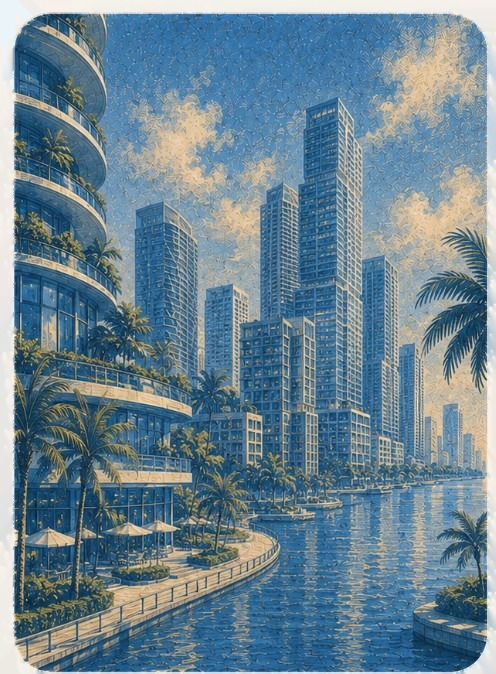
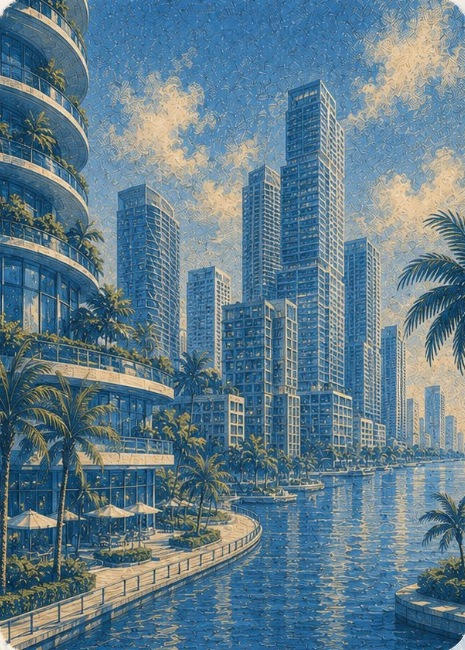
Trim the hero top fringe and smooth the ventures expand animation.

diff --git a/index.html b/index.html
@@ -34,11 +34,11 @@
   <link rel="preconnect" href="https://fonts.googleapis.com" />
   <link rel="preconnect" href="https://fonts.gstatic.com" crossorigin />
   <link href="https://fonts.googleapis.com/css2?family=Instrument+Serif:ital@0;1&display=swap" rel="stylesheet" />
-  <link rel="stylesheet" href="style.css?v=20260806c" />
+  <link rel="stylesheet" href="style.css?v=20260806d" />
 </head>
 <body>
   <div class="world" aria-hidden="true">
-    <img class="world-art" src="assets/hero-city-fill.jpg?v=20260806c" alt="" />
+    <img class="world-art" src="assets/hero-city-fill.jpg?v=20260806d" alt="" />
     <div class="world-wash"></div>
   </div>
 
@@ -60,62 +60,64 @@
 
     <details class="ventures" id="ventures">
       <summary>Ventures <span class="range"><time datetime="2019">2019</time>–<time datetime="2026">2026</time></span></summary>
-      <ul>
-        <li>
-          <a href="https://instaclaw.io" target="_blank" rel="noopener noreferrer">
+      <div class="ventures-panel">
+        <ul>
+          <li>
+            <a href="https://instaclaw.io" target="_blank" rel="noopener noreferrer">
+              <div class="row">
+                <strong>Instaclaw</strong>
+                <span class="when">Present</span>
+              </div>
+              <span>Cofounder. Personal AI agents that take action.</span>
+            </a>
+          </li>
+          <li>
             <div class="row">
-              <strong>Instaclaw</strong>
-              <span class="when">Present</span>
+              <strong>Fragile</strong>
+              <span class="when">Previous</span>
             </div>
-            <span>Cofounder. Personal AI agents that take action.</span>
-          </a>
-        </li>
-        <li>
-          <div class="row">
-            <strong>Fragile</strong>
-            <span class="when">Previous</span>
-          </div>
-          <span>New media, motion, and launch films at a stealth Series B startup.</span>
-        </li>
-        <li>
-          <div class="row">
-            <strong>Halo</strong>
-            <span class="when">Previous</span>
-          </div>
-          <span>Hardware for quitting smoking.</span>
-        </li>
-        <li>
-          <div class="row">
-            <strong>Amarna Gallery</strong>
-            <span class="when">Previous</span>
-          </div>
-          <span>Cultural institution and events.</span>
-        </li>
-        <li>
-          <div class="row">
-            <strong>Neutrals</strong>
-            <span class="when">Previous</span>
-          </div>
-          <span>Agentic AI news platform.</span>
-        </li>
-        <li>
-          <div class="row">
-            <strong>Lucky Eight Media</strong>
-            <span class="when">Previous</span>
-          </div>
-          <span>B2B lead generation.</span>
-        </li>
-        <li>
-          <div class="row">
-            <strong>Revyval</strong>
-            <span class="when">Previous</span>
-          </div>
-          <span>Health science and human performance.</span>
-        </li>
-      </ul>
+            <span>New media, motion, and launch films at a stealth Series B startup.</span>
+          </li>
+          <li>
+            <div class="row">
+              <strong>Halo</strong>
+              <span class="when">Previous</span>
+            </div>
+            <span>Hardware for quitting smoking.</span>
+          </li>
+          <li>
+            <div class="row">
+              <strong>Amarna Gallery</strong>
+              <span class="when">Previous</span>
+            </div>
+            <span>Cultural institution and events.</span>
+          </li>
+          <li>
+            <div class="row">
+              <strong>Neutrals</strong>
+              <span class="when">Previous</span>
+            </div>
+            <span>Agentic AI news platform.</span>
+          </li>
+          <li>
+            <div class="row">
+              <strong>Lucky Eight Media</strong>
+              <span class="when">Previous</span>
+            </div>
+            <span>B2B lead generation.</span>
+          </li>
+          <li>
+            <div class="row">
+              <strong>Revyval</strong>
+              <span class="when">Previous</span>
+            </div>
+            <span>Health science and human performance.</span>
+          </li>
+        </ul>
+      </div>
     </details>
   </main>
 
-  <script src="script.js?v=20260804" defer></script>
+  <script src="script.js?v=20260806d" defer></script>
 </body>
 </html>

diff --git a/script.js b/script.js
@@ -1,23 +1,77 @@
 (function () {
   var el = document.getElementById('clock');
-  if (!el) return;
+  if (el) {
+    var fmt = new Intl.DateTimeFormat('en-US', {
+      timeZone: 'America/Los_Angeles',
+      month: 'short',
+      day: 'numeric',
+      year: 'numeric',
+      hour: '2-digit',
+      minute: '2-digit',
+      hour12: false,
+    });
 
-  var fmt = new Intl.DateTimeFormat('en-US', {
-    timeZone: 'America/Los_Angeles',
-    month: 'short',
-    day: 'numeric',
-    year: 'numeric',
-    hour: '2-digit',
-    minute: '2-digit',
-    hour12: false,
-  });
+    function tick() {
+      var now = new Date();
+      el.dateTime = now.toISOString();
+      el.textContent = 'San Francisco · ' + fmt.format(now);
+    }
 
-  function tick() {
-    var now = new Date();
-    el.dateTime = now.toISOString();
-    el.textContent = 'San Francisco · ' + fmt.format(now);
+    tick();
+    setInterval(tick, 30000);
   }
 
-  tick();
-  setInterval(tick, 30000);
+  // Smooth ventures accordion (details open/close is otherwise instant)
+  var details = document.getElementById('ventures');
+  if (!details) return;
+
+  var panel = details.querySelector('.ventures-panel');
+  if (!panel) return;
+
+  var reduce = window.matchMedia('(prefers-reduced-motion: reduce)').matches;
+
+  function setOpen(open) {
+    details.classList.toggle('is-open', open);
+    details.open = open;
+  }
+
+  // Start closed visually even if browser restores open state mid-animation
+  if (details.open) {
+    details.classList.add('is-open');
+  }
+
+  details.addEventListener('click', function (e) {
+    var summary = e.target.closest('summary');
+    if (!summary || !details.contains(summary)) return;
+    e.preventDefault();
+
+    var willOpen = !details.classList.contains('is-open');
+
+    if (reduce) {
+      setOpen(willOpen);
+      return;
+    }
+
+    if (willOpen) {
+      details.open = true;
+      // Force a frame so 0fr → 1fr transitions
+      requestAnimationFrame(function () {
+        details.classList.add('is-open');
+      });
+    } else {
+      details.classList.remove('is-open');
+      var done = false;
+      function finish() {
+        if (done) return;
+        done = true;
+        details.open = false;
+        panel.removeEventListener('transitionend', onEnd);
+      }
+      function onEnd(ev) {
+        if (ev.target === panel && ev.propertyName === 'grid-template-rows') finish();
+      }
+      panel.addEventListener('transitionend', onEnd);
+      setTimeout(finish, 500);
+    }
+  });
 })();

diff --git a/style.css b/style.css
@@ -49,7 +49,7 @@ body {
   width: 100%;
   height: 100%;
   object-fit: cover;
-  object-position: 50% 40%;
+  object-position: 50% 42%;
   filter: saturate(1.05) contrast(1.02);
 }
 
@@ -57,19 +57,19 @@ body {
   position: absolute;
   inset: 0;
   background:
-    linear-gradient(180deg, rgba(10, 24, 36, 0.35) 0%, rgba(10, 24, 36, 0.08) 38%, rgba(10, 24, 36, 0.55) 100%),
+    linear-gradient(180deg, rgba(10, 24, 36, 0.45) 0%, rgba(10, 24, 36, 0.08) 28%, rgba(10, 24, 36, 0.55) 100%),
     radial-gradient(ellipse 80% 55% at 50% 30%, transparent 20%, rgba(8, 20, 32, 0.35) 100%);
   pointer-events: none;
 }
 
 @media (max-width: 767px) {
   .world-art {
-    object-position: 50% 35%;
+    object-position: 50% 38%;
   }
 
   .world-wash {
     background:
-      linear-gradient(180deg, rgba(10, 24, 36, 0.25) 0%, rgba(10, 24, 36, 0.1) 40%, rgba(10, 24, 36, 0.62) 100%),
+      linear-gradient(180deg, rgba(10, 24, 36, 0.4) 0%, rgba(10, 24, 36, 0.1) 32%, rgba(10, 24, 36, 0.62) 100%),
       radial-gradient(ellipse 90% 55% at 50% 25%, transparent 15%, rgba(8, 20, 32, 0.4) 100%);
   }
 }
@@ -245,6 +245,31 @@ body {
   padding: 0.35rem 0 0.65rem;
 }
 
+.ventures-panel {
+  display: grid;
+  grid-template-rows: 0fr;
+  transition: grid-template-rows 0.45s cubic-bezier(0.22, 1, 0.36, 1);
+}
+
+.ventures.is-open .ventures-panel {
+  grid-template-rows: 1fr;
+}
+
+.ventures-panel > ul {
+  overflow: hidden;
+  min-height: 0;
+  opacity: 0;
+  transform: translateY(-6px);
+  transition:
+    opacity 0.35s ease 0.05s,
+    transform 0.45s cubic-bezier(0.22, 1, 0.36, 1);
+}
+
+.ventures.is-open .ventures-panel > ul {
+  opacity: 1;
+  transform: translateY(0);
+}
+
 .ventures li {
   padding: 0.85rem 1.25rem;
 }
@@ -322,6 +347,11 @@ body {
   .plate,
   .ventures {
     animation: none;
+  }
+
+  .ventures-panel,
+  .ventures-panel > ul {
+    transition: none;
   }
 }
 
